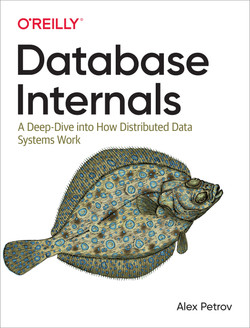
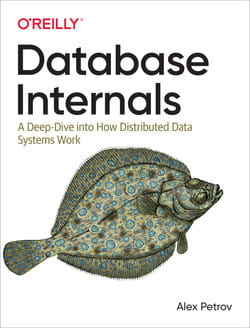
Explicit width and height. Compress some images.

diff --git a/static/hackmysql.css b/static/hackmysql.css
@@ -1,1 +1,1 @@
-*, *::before, *:after {box-sizing:border-box;} html {-webkit-text-size-adjust:100%;} body {font-family:'Verdana', sans-serif; font-size:14px; line-height:1.5em; margin:0; min-width:320px; word-wrap:break-word;} h1, h2, h3, h4 {line-height:1.2em; margin:2rem 0 0 0; font-weight:200;} h1 {font-size:2.4em; margin:0;} h2 {font-size:2.0em;} h3 {font-size:1.5em;} h4 {font-size:1.2em;} h2 + hr + h3 {margin-top:1rem;} a {color:#0060FF;} a:hover, a:focus {color:#0085a1; text-decoration:underline;} blockquote::before{content:"\201C"; font-size:4rem; position:relative; right:2rem; top:2rem; color:gray;} blockquote {display:inline-flex; color:#161616; font-family:'Georgia', serif; font-size:1.0rem; line-height:1.5rem; text-align:justify; margin:0 2rem;} sup {line-height:1em;} sup a {text-decoration:none;} img {display:block; margin:1em 0; max-width:100%;} img.left {float:left; margin-right:1rem;} img.c75 {margin-right:auto; margin-left:auto; width:75%;} img.c33 {margin-right:auto; margin-left:auto; width:33%;} hr {height:0; border:0; border-top:1px solid lightgray;} dt {font-style:italic;} dd {margin-left:2rem;} button:hover {cursor:pointer;} mark {background-color:pink; border-bottom:3px solid hotpink; padding:0 5px; border-top-left-radius:5px; border-bottom-right-radius:5px;} .comments {margin:2rem 1rem;} .post-preview {margin-top:2rem;} .post-preview > a {text-decoration:none; color:black;} .post-subtitle {margin-top:0.5rem; color:#777;} .post-meta {color:#707070; font-style:italic; margin:0.5rem 0 2rem 0;} .post-meta a {color:#404040; text-decoration:none;} .post-meta > div:first-child {display:flex; align-items:center; gap:0.5em;} .read-more {font-style:italic; text-align:right;} div.to {overflow-x:scroll;} :is(h1,h2,h3,h4) + div.to > table {margin-top:1em;} table {margin:0; padding:0; border-collapse:collapse;} table tr {border-top:1px solid #cccccc; margin:0; padding:0;} table tr:nth-child(2n) {background-color:#f8f8f8;} table tr th {font-weight:bold; border:1px solid #cccccc; text-align:left; padding:5px 10px;} table tr td {border:1px solid #cccccc; text-align:left; padding:5px 10px;} table tr th :first-child, table tr td :first-child {margin-top:0;} table tr th :last-child, table tr td :last-child {margin-bottom:0;} div.res {width:100%; font-family:'Courier'; overflow:scroll; padding:1rem;} table.list {position:relative; background-color:white; border:0; min-width:max-content;} table.list tr, table.list th, table.list td {background-color:white; border:0; margin:0; padding:0; font-weight:unset;} .kw {font-weight:bold; background-color:lime;} div.more {margin-top:4rem;} span.more {font-size:1.2rem;} .blogs > div {line-height:2rem; padding-left:2rem;} .tools {display:flex; flex-direction:column; gap:2rem; margin-top:2rem;} .tool {border:1px solid gray; padding:0.5rem; border-radius:15px; display:flex; flex-direction:row; align-items:center; cursor:pointer;} .tool:hover {box-shadow:0 0 10px 5px rgb(0, 255, 255, 75%);} img.ion {display:inline; height:2rem;} .tool > img.ion {margin-right:1rem;} div.blog-tags a {color:#005F87;} div.blog-tags a:hover {text-decoration:underline;} .note {background-color:#f0f7fb; border-left:solid 4px #3498db; border-radius:5px; padding:1rem 2rem; margin:2rem 0;} .warn {background-color:#ffdfdf; border-color:red; text-align:justify;} .left-icon {display:flex; align-items:center;} .left-icon > img {float:left; margin-right:1rem;} .note.warn.left-icon {padding-left:1rem;} .center {display:flex; align-items:center;} .mm {margin:1rem 0;} button#focus {float:right; font-size:inherit; color:inherit; border:0; background:none;} p.figure {margin-top:-0.5rem; margin-bottom:1rem; font-size:0.7rem; font-style:italic; color:#666666;} div.footnotes {margin-top:1rem;} .tag {border-radius:25px; border:1px solid black; padding:0 5px 0 5px; margin-right:10px;} .withshadow {box-shadow:0 4px 8px 0 rgb(0 0 0 / 40%);} .rounded {border-radius:20px;} .highlight {overflow:scroll;} .sidebyside {display:flex; gap:0.5rem; overflow-x:auto;} div.my-book-cover {text-align:center; margin-top:1rem;} img.my-book-cover {width:300px; margin:auto; margin-bottom:2rem; box-shadow:0 4px 8px 0 rgb(0, 0, 0, 50%);} .book-links {display:flex; gap:1rem; align-items:center; justify-content:center;} .book-button {position:relative; font-size:0.7rem; display:inline-block; margin-bottom:1rem; padding:8px 8px; word-break:keep-all; border-radius:5px; background-color:#e00; color:white; font-weight:300; text-transform:uppercase; letter-spacing:.02rem; text-decoration:none;} .book-button:hover, .book-button:focus {color:white; text-decoration:none;} .my-book-desc {text-align:justify;} div.book-covers img {height:150px; display:inline-block; margin:0.5rem;} nav a {text-decoration:none;} nav#toc {font-size:0.8rem; padding-right:1rem;} nav#toc a {color:black;} nav#toc a:hover {text-decoration:underline;} nav#toc ul {padding:0;} nav#toc nav > ul > li {margin-bottom:1rem;} nav#toc ul ul {padding-left:1rem; list-style-type:none;} nav#menu {min-height:75px; background:black; position:relative; padding-left:1rem; border-bottom:5px solid cyan;} nav#menu> a {color:hotpink; padding-right:0.5rem; font-size:20px;} nav#menu > a:hover {text-decoration:none;} .menuItem {display:inline-block; min-height:inherit;} .menuButton {color:cyan; border:0; background:none; position:relative; font-size:20px; min-height:inherit; padding:0; padding-right:0.75rem;} .submenu {display:none; position:absolute; z-index:1; width:auto; margin-right:2rem; background:black; color:white; line-height:1.75rem; padding:0 1rem 0.5rem 1rem; border:5px solid cyan; border-top:0; border-radius:0 0 15px 15px;} .submenu::before {content:""; position:absolute; top:0; left:-1rem; width:1rem; height:1rem; z-index:1; border-top:5px solid cyan; border-right:5px solid cyan; border-top-right-radius:10px; box-shadow:5px -5px black;} .submenu::after{content:""; position:absolute; top:0; right:-1rem; width:1rem; height:1rem; z-index:1; border-top:5px solid cyan; border-left:5px solid cyan; border-top-left-radius:10px; box-shadow:-5px -5px black;} .submenu a {color:white;} .submenu time {color:lightgray;} .subtitle {color:hotpink;} .subtitle:not(:first-child) {margin-top:1rem;} .views {display:inline-block; color:lightgray;} div.page {display:grid; grid-template-columns:1fr 60% 1fr; grid-template-areas: "bird art toc"; grid-column-gap:2rem; margin-top:1rem;} div#bird {grid-area:bird; padding-top:1rem; padding-left:1rem; overflow-x:hidden; font-size:0.8rem;} article {padding:1rem;} nav#toc {grid-area:toc; position:sticky; top:0; align-self:start;} div.scroller {overflow-y:scroll; padding-top:2rem; height:100vh;} .home {margin:0 2em; display:flex; gap:2em;} .home > div {flex-basis:100%;} @media screen and (max-width:767px) {.submenu {position:absolute; left:0; z-index:1; margin:0 1rem; width:calc(100% - 2rem); border-bottom:5px solid cyan;} div.page {display:grid; grid-template-columns:100%; grid-template-areas: "toc" "art" "bird"; margin:0 1rem;} nav#toc {grid-area:toc; line-height:2.0rem; position:relative; padding:0;} article {margin:0; padding:0; border:0;} div#bird {grid-area:bird; margin-top:4rem; padding:0;} div.scroller {padding-top:1rem; height:auto;} .home {margin:0 1rem; flex-direction:column; gap:2rem;} .books .more {display:none;} img.c75, img.c33{width:75vw;}} @media screen and (max-width:429px) {nav#menu {min-height:auto; padding:1rem;} .menuItem {display:block; min-height:auto;} .menuButton {min-height:auto; margin:0.5rem 0;} .menuItem:last-child .menuButton {margin-bottom:0;} .submenu {position:relative; z-index:0; border:0; width:100%; margin:0.5rem 0; padding:0; padding-left:0.5rem;} .submenu::before, .submenu::after {display:none;} img.left {float:none; margin:auto; width:100%;} .sidebyside {flex-direction:column;}} .footnote-backref {font-size:1.2em; text-decoration:none; vertical-align:text-top;} footer {margin-top:2rem; min-height:75px; display:flex; align-items:center; justify-content:center; gap:1rem; flex-wrap:wrap; color:white; background:black; border-top:5px solid cyan;} footer a {color:cyan; text-decoration:none;} .notfound {display:flex; margin:auto; width:50%; flex-direction:column; align-content:center;} .show {display:block;} .drop {text-decoration:underline; text-decoration-color:hotpink; text-underline-position:under;} .hide {visibility:hidden; height:0;} .noborder {border:0;padding:0;} .zen {position:fixed;top:1rem;right:1.5rem;padding:0;} .print-copyright {visibility:hidden; height:0;} @media print {nav#menu, footer {display:none;} div#bird, nav#toc, button#focus {visibility:hidden;} article {border:0;} .print-copyright {visibility:visible; height:auto; margin-top:4rem;}} div.chroma {background-color:white;} table.lntable tr{border:0;} td.lntd:first-child > pre.chroma {padding:0.5em 0em; background:white; color:black;} pre {line-height:1.5em; padding:0.5em; padding-right:2em; width:100%; overflow-x:scroll; border-radius:5px; background-color:#f5f5f5; font-size:13px; min-width:33%;} pre.chroma {background-color:black; width:fit-content; -moz-tab-size:4; -o-tab-size:4; tab-size:4;} pre code {white-space:pre; word-wrap:normal;} .bg {color:#f8f8f2; background-color:#272822;} .chroma {color:#f8f8f2; background-color:#272822;} .chroma .x {} .chroma .err {color:red; background-color:#1e0010} .chroma .cl {} .chroma .lnlinks {outline:none; text-decoration:none; color:inherit} .chroma .lntd {vertical-align:top; padding:0; margin:0; border:0;} .chroma .lntable {border-spacing:0; padding:0; margin:0; border:0;} .chroma .hl {background-color:#3c3d38} .chroma .lnt {white-space:pre; -webkit-user-select:none; user-select:none; margin-right:0.4em; padding:0 0.4em 0 0.4em;color:#7f7f7f} .chroma .ln {white-space:pre; -webkit-user-select:none; user-select:none; margin-right:0.4em; padding:0 0.4em 0 0.4em;color:#7f7f7f} .chroma .line {display:flex;} .chroma .k {color:#66d9ef} .chroma .kc {color:#66d9ef} .chroma .kd {color:#66d9ef} .chroma .kn {color:#f92672} .chroma .kp {color:#66d9ef} .chroma .kr {color:#66d9ef} .chroma .kt {color:#66d9ef} .chroma .n {} .chroma .na {color:#a6e22e} .chroma .nb {} .chroma .bp {} .chroma .nc {color:#a6e22e} .chroma .no {color:#66d9ef} .chroma .nd {color:#a6e22e} .chroma .ni {} .chroma .ne {color:#a6e22e} .chroma .nf {color:#a6e22e} .chroma .fm {} .chroma .nl {} .chroma .nn {} .chroma .nx {color:#a6e22e} .chroma .py {} .chroma .nt {color:lightgreen;} .chroma .nv {} .chroma .vc {} .chroma .vg {} .chroma .vi {} .chroma .vm {} .chroma .l {color:#ae81ff} .chroma .ld {color:#FAEBD7} .chroma .s {color:#FAEBD7;} .chroma .sa {color:#FAEBD7} .chroma .sb {color:#FAEBD7} .chroma .sc {color:#FAEBD7} .chroma .dl {color:#FAEBD7} .chroma .sd {color:#FAEBD7} .chroma .s2 {color:#FAEBD7} .chroma .se {color:#ae81ff} .chroma .sh {color:#FAEBD7} .chroma .si {color:#FAEBD7} .chroma .sx {color:#FAEBD7} .chroma .sr {color:#FAEBD7} .chroma .s1 {color:#FAEBD7} .chroma .ss {color:#FAEBD7} .chroma .m {color:#ae81ff} .chroma .mb {color:#ae81ff} .chroma .mf {color:#ae81ff} .chroma .mh {color:#ae81ff} .chroma .mi {color:cyan;} .chroma .il {color:#ae81ff} .chroma .mo {color:#ae81ff} .chroma .o {color:hotpink;} .chroma .ow {color:#f92672} .chroma .p {} .chroma .c {color:lightpink;} .chroma .ch {color:lightpink;} .chroma .cm {color:lightpink;} .chroma .c1 {color:lightpink;} .chroma .cs {color:lightpink;} .chroma .cp {color:lightpink;} .chroma .cpf {color:lightpink;} .chroma .g {} .chroma .gd {color:#f92672} .chroma .ge {font-style:italic} .chroma .gr {} .chroma .gh {} .chroma .gi {color:#a6e22e} .chroma .go {} .chroma .gs {font-weight:bold} .chroma .gu {color:#75715e} .chroma .gt {} .chroma .gl {} .chroma .w {}
+*, *::before, *:after {box-sizing:border-box;} html {-webkit-text-size-adjust:100%;} body {font-family:'Verdana', sans-serif; font-size:14px; line-height:1.5em; margin:0; min-width:320px; word-wrap:break-word;} h1, h2, h3, h4 {line-height:1.2em; margin:2rem 0 0 0; font-weight:200;} h1 {font-size:2.4em; margin:0;} h2 {font-size:2.0em;} h3 {font-size:1.5em;} h4 {font-size:1.2em;} h2 + hr + h3 {margin-top:1rem;} a {color:#0060FF;} a:hover, a:focus {color:#0085a1; text-decoration:underline;} blockquote::before{content:"\201C"; font-size:4rem; position:relative; right:2rem; top:2rem; color:gray;} blockquote {display:inline-flex; color:#161616; font-family:'Georgia', serif; font-size:1.0rem; line-height:1.5rem; text-align:justify; margin:0 2rem;} sup {line-height:1em;} sup a {text-decoration:none;} img {display:block; margin:1em 0; max-width:100%;} img.left {float:left; margin-right:1rem;} img.c75 {margin-right:auto; margin-left:auto; width:75%;} img.c33 {margin-right:auto; margin-left:auto; width:33%;} hr {height:0; border:0; border-top:1px solid lightgray;} dt {font-style:italic;} dd {margin-left:2rem;} button:hover {cursor:pointer;} mark {background-color:pink; border-bottom:3px solid hotpink; padding:0 5px; border-top-left-radius:5px; border-bottom-right-radius:5px;} .comments {margin:2rem 1rem;} .post-preview {margin-top:2rem;} .post-preview > a {text-decoration:none; color:black;} .post-subtitle {margin-top:0.5rem; color:#777;} .post-meta {color:#707070; font-style:italic; margin:0.5rem 0 2rem 0;} .post-meta a {color:#404040; text-decoration:none;} .post-meta > div:first-child {display:flex; align-items:center; gap:0.5em;} .read-more {font-style:italic; text-align:right;} div.to {overflow-x:scroll;} :is(h1,h2,h3,h4) + div.to > table {margin-top:1em;} table {margin:0; padding:0; border-collapse:collapse;} table tr {border-top:1px solid #cccccc; margin:0; padding:0;} table tr:nth-child(2n) {background-color:#f8f8f8;} table tr th {font-weight:bold; border:1px solid #cccccc; text-align:left; padding:5px 10px;} table tr td {border:1px solid #cccccc; text-align:left; padding:5px 10px;} table tr th :first-child, table tr td :first-child {margin-top:0;} table tr th :last-child, table tr td :last-child {margin-bottom:0;} div.res {width:100%; font-family:'Courier'; overflow:scroll; padding:1rem;} table.list {position:relative; background-color:white; border:0; min-width:max-content;} table.list tr, table.list th, table.list td {background-color:white; border:0; margin:0; padding:0; font-weight:unset;} .kw {font-weight:bold; background-color:lime;} div.more {margin-top:4rem;} span.more {font-size:1.2rem;} .blogs > div {line-height:2rem; padding-left:2rem;} .tools {display:flex; flex-direction:column; gap:2rem; margin-top:2rem;} .tool {border:1px solid gray; padding:0.5rem; border-radius:15px; display:flex; flex-direction:row; align-items:center; cursor:pointer;} .tool:hover {box-shadow:0 0 10px 5px rgb(0, 255, 255, 75%);} img.ion {display:inline; height:2rem;} .tool > img.ion {margin-right:1rem;} div.blog-tags a {color:#005F87;} div.blog-tags a:hover {text-decoration:underline;} .note {background-color:#f0f7fb; border-left:solid 4px #3498db; border-radius:5px; padding:1rem 2rem; margin:2rem 0;} .warn {background-color:#ffdfdf; border-color:red; text-align:justify;} .left-icon {display:flex; align-items:center;} .left-icon > img {float:left; margin-right:1rem;} .note.warn.left-icon {padding-left:1rem;} .center {display:flex; align-items:center;} .mm {margin:1rem 0;} button#focus {float:right; font-size:inherit; color:inherit; border:0; background:none;} p.figure {margin-top:-0.5rem; margin-bottom:1rem; font-size:0.7rem; font-style:italic; color:#666666;} div.footnotes {margin-top:1rem;} .tag {border-radius:25px; border:1px solid black; padding:0 5px 0 5px; margin-right:10px;} .withshadow {box-shadow:0 4px 8px 0 rgb(0 0 0 / 40%);} .rounded {border-radius:20px;} .highlight {overflow:scroll;} .sidebyside {display:flex; gap:0.5rem; overflow-x:auto;} div.my-book-cover {text-align:center; margin-top:1rem;} img.my-book-cover {margin:auto; margin-bottom:2rem; box-shadow:0 4px 8px 0 rgb(0, 0, 0, 50%);} .book-links {display:flex; gap:1rem; align-items:center; justify-content:center;} .book-button {position:relative; font-size:0.7rem; display:inline-block; margin-bottom:1rem; padding:8px 8px; word-break:keep-all; border-radius:5px; background-color:#e00; color:white; font-weight:300; text-transform:uppercase; letter-spacing:.02rem; text-decoration:none;} .book-button:hover, .book-button:focus {color:white; text-decoration:none;} .my-book-desc {text-align:justify;} div.book-covers img {display:inline-block; margin:0.5rem;} nav a {text-decoration:none;} nav#toc {font-size:0.8rem; padding-right:1rem;} nav#toc a {color:black;} nav#toc a:hover {text-decoration:underline;} nav#toc ul {padding:0;} nav#toc nav > ul > li {margin-bottom:1rem;} nav#toc ul ul {padding-left:1rem; list-style-type:none;} nav#menu {min-height:75px; background:black; position:relative; padding-left:1rem; border-bottom:5px solid cyan;} nav#menu> a {color:hotpink; padding-right:0.5rem; font-size:20px;} nav#menu > a:hover {text-decoration:none;} .menuItem {display:inline-block; min-height:inherit;} .menuButton {color:cyan; border:0; background:none; position:relative; font-size:20px; min-height:inherit; padding:0; padding-right:0.75rem;} .submenu {display:none; position:absolute; z-index:1; width:auto; margin-right:2rem; background:black; color:white; line-height:1.75rem; padding:0 1rem 0.5rem 1rem; border:5px solid cyan; border-top:0; border-radius:0 0 15px 15px;} .submenu::before {content:""; position:absolute; top:0; left:-1rem; width:1rem; height:1rem; z-index:1; border-top:5px solid cyan; border-right:5px solid cyan; border-top-right-radius:10px; box-shadow:5px -5px black;} .submenu::after{content:""; position:absolute; top:0; right:-1rem; width:1rem; height:1rem; z-index:1; border-top:5px solid cyan; border-left:5px solid cyan; border-top-left-radius:10px; box-shadow:-5px -5px black;} .submenu a {color:white;} .submenu time {color:lightgray;} .subtitle {color:hotpink;} .subtitle:not(:first-child) {margin-top:1rem;} .views {display:inline-block; color:lightgray;} div.page {display:grid; grid-template-columns:1fr 60% 1fr; grid-template-areas: "bird art toc"; grid-column-gap:2rem; margin-top:1rem;} div#bird {grid-area:bird; padding-top:1rem; padding-left:1rem; overflow-x:hidden; font-size:0.8rem;} article {padding:1rem;} nav#toc {grid-area:toc; position:sticky; top:0; align-self:start;} div.scroller {overflow-y:scroll; padding-top:2rem; height:100vh;} .home {margin:0 2em; display:flex; gap:2em;} .home > div {flex-basis:100%;} @media screen and (max-width:767px) {.submenu {position:absolute; left:0; z-index:1; margin:0 1rem; width:calc(100% - 2rem); border-bottom:5px solid cyan;} div.page {display:grid; grid-template-columns:100%; grid-template-areas: "toc" "art" "bird"; margin:0 1rem;} nav#toc {grid-area:toc; line-height:2.0rem; position:relative; padding:0;} article {margin:0; padding:0; border:0;} div#bird {grid-area:bird; margin-top:4rem; padding:0;} div.scroller {padding-top:1rem; height:auto;} .home {margin:0 1rem; flex-direction:column; gap:2rem;} .books .more {display:none;} img.c75, img.c33{width:75vw;}} @media screen and (max-width:429px) {nav#menu {min-height:auto; padding:1rem;} .menuItem {display:block; min-height:auto;} .menuButton {min-height:auto; margin:0.5rem 0;} .menuItem:last-child .menuButton {margin-bottom:0;} .submenu {position:relative; z-index:0; border:0; width:100%; margin:0.5rem 0; padding:0; padding-left:0.5rem;} .submenu::before, .submenu::after {display:none;} img.left {float:none; margin:auto; width:100%;} .sidebyside {flex-direction:column;}} .footnote-backref {font-size:1.2em; text-decoration:none; vertical-align:text-top;} footer {margin-top:2rem; min-height:75px; display:flex; align-items:center; justify-content:center; gap:1rem; flex-wrap:wrap; color:white; background:black; border-top:5px solid cyan;} footer a {color:cyan; text-decoration:none;} .notfound {display:flex; margin:auto; width:50%; flex-direction:column; align-content:center;} .show {display:block;} .drop {text-decoration:underline; text-decoration-color:hotpink; text-underline-position:under;} .hide {visibility:hidden; height:0;} .noborder {border:0;padding:0;} .zen {position:fixed;top:1rem;right:1.5rem;padding:0;} .print-copyright {visibility:hidden; height:0;} @media print {nav#menu, footer {display:none;} div#bird, nav#toc, button#focus {visibility:hidden;} article {border:0;} .print-copyright {visibility:visible; height:auto; margin-top:4rem;}} div.chroma {background-color:white;} table.lntable tr{border:0;} td.lntd:first-child > pre.chroma {padding:0.5em 0em; background:white; color:black;} pre {line-height:1.5em; padding:0.5em; padding-right:2em; width:100%; overflow-x:scroll; border-radius:5px; background-color:#f5f5f5; font-size:13px; min-width:33%;} pre.chroma {background-color:black; width:fit-content; -moz-tab-size:4; -o-tab-size:4; tab-size:4;} pre code {white-space:pre; word-wrap:normal;} .bg {color:#f8f8f2; background-color:#272822;} .chroma {color:#f8f8f2; background-color:#272822;} .chroma .x {} .chroma .err {color:red; background-color:#1e0010} .chroma .cl {} .chroma .lnlinks {outline:none; text-decoration:none; color:inherit} .chroma .lntd {vertical-align:top; padding:0; margin:0; border:0;} .chroma .lntable {border-spacing:0; padding:0; margin:0; border:0;} .chroma .hl {background-color:#3c3d38} .chroma .lnt {white-space:pre; -webkit-user-select:none; user-select:none; margin-right:0.4em; padding:0 0.4em 0 0.4em;color:#7f7f7f} .chroma .ln {white-space:pre; -webkit-user-select:none; user-select:none; margin-right:0.4em; padding:0 0.4em 0 0.4em;color:#7f7f7f} .chroma .line {display:flex;} .chroma .k {color:#66d9ef} .chroma .kc {color:#66d9ef} .chroma .kd {color:#66d9ef} .chroma .kn {color:#f92672} .chroma .kp {color:#66d9ef} .chroma .kr {color:#66d9ef} .chroma .kt {color:#66d9ef} .chroma .n {} .chroma .na {color:#a6e22e} .chroma .nb {} .chroma .bp {} .chroma .nc {color:#a6e22e} .chroma .no {color:#66d9ef} .chroma .nd {color:#a6e22e} .chroma .ni {} .chroma .ne {color:#a6e22e} .chroma .nf {color:#a6e22e} .chroma .fm {} .chroma .nl {} .chroma .nn {} .chroma .nx {color:#a6e22e} .chroma .py {} .chroma .nt {color:lightgreen;} .chroma .nv {} .chroma .vc {} .chroma .vg {} .chroma .vi {} .chroma .vm {} .chroma .l {color:#ae81ff} .chroma .ld {color:#FAEBD7} .chroma .s {color:#FAEBD7;} .chroma .sa {color:#FAEBD7} .chroma .sb {color:#FAEBD7} .chroma .sc {color:#FAEBD7} .chroma .dl {color:#FAEBD7} .chroma .sd {color:#FAEBD7} .chroma .s2 {color:#FAEBD7} .chroma .se {color:#ae81ff} .chroma .sh {color:#FAEBD7} .chroma .si {color:#FAEBD7} .chroma .sx {color:#FAEBD7} .chroma .sr {color:#FAEBD7} .chroma .s1 {color:#FAEBD7} .chroma .ss {color:#FAEBD7} .chroma .m {color:#ae81ff} .chroma .mb {color:#ae81ff} .chroma .mf {color:#ae81ff} .chroma .mh {color:#ae81ff} .chroma .mi {color:cyan;} .chroma .il {color:#ae81ff} .chroma .mo {color:#ae81ff} .chroma .o {color:hotpink;} .chroma .ow {color:#f92672} .chroma .p {} .chroma .c {color:lightpink;} .chroma .ch {color:lightpink;} .chroma .cm {color:lightpink;} .chroma .c1 {color:lightpink;} .chroma .cs {color:lightpink;} .chroma .cp {color:lightpink;} .chroma .cpf {color:lightpink;} .chroma .g {} .chroma .gd {color:#f92672} .chroma .ge {font-style:italic} .chroma .gr {} .chroma .gh {} .chroma .gi {color:#a6e22e} .chroma .go {} .chroma .gs {font-weight:bold} .chroma .gu {color:#75715e} .chroma .gt {} .chroma .gl {} .chroma .w {}

diff --git a/layouts/index.html b/layouts/index.html
@@ -3,7 +3,7 @@
 	<div class="books">
 		<div class="my-book">
 			<div class="my-book-cover">
-				<img class="my-book-cover" src="/img/book/efficient-mysql-performance-cover.png" alt="Efficient MySQL Performance book cover">
+				<img class="my-book-cover" width="300" height="396" src="/img/book/efficient-mysql-performance-cover.png" alt="Efficient MySQL Performance book cover">
 			</div>
 			<div class="book-links">
 				<a class="book-button" data-dst="oreilly" href="https://oreil.ly/efficient-mysql-performance">O'Reilly&nbsp;&Rang;</a>
@@ -24,13 +24,13 @@
 			<span class="more">More books about databases, MySQL, and SQL</span>
 			<hr>
 			<div class="book-covers">
-				<a href="https://www.oreilly.com/library/view/learning-mysql-2nd/9781492085911/"><img src="/img/learning-mysql-2e-book-cover.jpeg" alt="Learning MySQL (2nd Edition)"></a>
-				<a href="https://www.oreilly.com/library/view/high-performance-mysql/9781492080503/"><img src="/img/high-performance-mysql-4e-book-cover.jpeg " alt="High Performance MySQL (4th Edition)"></a>
-				<a href="https://pragprog.com/titles/bksap1/sql-antipatterns-volume-1/"><img src="/img/sql-antipatterns-vol-1-book-cover.jpeg " alt="SQL Antipatterns (Vol. 1)"></a>
-				<a href="https://www.oreilly.com/library/view/mysql-troubleshooting/9781449317836/"><img src="/img/mysql-troubleshooting-book-cover.jpeg" alt="MySQL Troubleshooting"></a>
-				<a href="https://learning.oreilly.com/library/view/mysql-cookbook-4th/9781492093152/"><img src="/img/mysql-cookbook-4ed-book-cover.jpeg" alt="MySQL Cookbook (4th Edition)"></a>
-				<a href="https://www.oreilly.com/library/view/database-internals/9781492040330/"><img src="/img/database-internals-book-cover.jpeg" alt="Database Internals"></a>
-				<a href="https://link.springer.com/book/10.1007/978-1-4842-6652-6"><img src="/img/mysql-concurrency-book-cover.jpeg" alt="MySQL Concurrency: Locking and Transactions for MySQL Developers and DBAs"></a>
+				<a href="https://www.oreilly.com/library/view/learning-mysql-2nd/9781492085911/"><img width="114" height="150" src="/img/learning-mysql-2e-book-cover.jpeg" alt="Learning MySQL (2nd Edition)"></a>
+				<a href="https://www.oreilly.com/library/view/high-performance-mysql/9781492080503/"><img width="114" height="150" src="/img/high-performance-mysql-4e-book-cover.jpeg " alt="High Performance MySQL (4th Edition)"></a>
+				<a href="https://www.oreilly.com/library/view/database-internals/9781492040330/"><img width="114" height="150" src="/img/database-internals-book-cover.jpeg" alt="Database Internals"></a>
+				<a href="https://www.oreilly.com/library/view/mysql-troubleshooting/9781449317836/"><img width="114" height="150" src="/img/mysql-troubleshooting-book-cover.jpeg" alt="MySQL Troubleshooting"></a>
+				<a href="https://learning.oreilly.com/library/view/mysql-cookbook-4th/9781492093152/"><img width="114" height="150" src="/img/mysql-cookbook-4ed-book-cover.jpeg" alt="MySQL Cookbook (4th Edition)"></a>
+				<a href="https://pragprog.com/titles/bksap1/sql-antipatterns-volume-1/"><img width="125" height="150" src="/img/sql-antipatterns-vol-1-book-cover.jpeg " alt="SQL Antipatterns (Vol. 1)"></a>
+				<a href="https://link.springer.com/book/10.1007/978-1-4842-6652-6"><img width="105" height="150" src="/img/mysql-concurrency-book-cover.jpeg" alt="MySQL Concurrency: Locking and Transactions for MySQL Developers and DBAs"></a>
 			</div>
 		</div>
 	</div>

diff --git a/layouts/partials/nav.html b/layouts/partials/nav.html
@@ -40,15 +40,15 @@
 				<time>{{ .Date.Format "2006-01-02" }}</time>&nbsp;<a href="{{ .Permalink }}">{{ .Title }}</a><br>
 				{{ end }}
 			<div class="subtitle">Most Popular</div>
-				<span class="views">8,572 views</span>
+				<span class="views">8,664 views</span>
 				<a href="{{ ref . "book-2" }}">MySQL EXPLAIN ANALYZE</a><br>
-				<span class="views">5,439 views</span>
+				<span class="views">5,518 views</span>
 				<a href="{{ ref . "mysql-threads-running-how-hard-is-mysql-working" }}">MySQL Threads Running: How Hard is MySQL Working?</a><br>
-				<span class="views">4,002 views</span>
+				<span class="views">4,090 views</span>
 				<a href="{{ ref . "commit-latency-aurora-vs-rds-mysql-8.0" }}">COMMIT Latency: Aurora vs. RDS MySQL 8.0</a><br>
-				<span class="views">3,937 views</span>
+				<span class="views">3,944 views</span>
 				<a href="{{ ref . "book-5" }}">I Don't Want to Shard (MySQL)</a><br>
-				<span class="views">3,434 views</span>
+				<span class="views">3,488 views</span>
 				<a href="{{ ref . "are-aurora-performance-claims-true" }}">Are Aurora Performance Claims True?</a><br>
 			<div class="subtitle">Watch and Learn</div>
 				<a href="/path/">An Efficient Path to Learning MySQL Performance</a><br>

diff --git a/layouts/_default/single.html b/layouts/_default/single.html
@@ -1,7 +1,7 @@
 {{ define "main" }}
 <div class="page">
 	<div id="bird">
-		<img width="120" src="/img/emp-bird.png" alt="Efficient MySQL Performance bird">
+		<img width="120" height="106" src="/img/emp-bird.png" alt="Efficient MySQL Performance bird">
 		<p><b><i>Efficient MySQL Performance</i></b><br>20 years of MySQL performance, written for software engineers</p>
 		<a class="book-button" data-dst="oreilly" href="https://oreil.ly/efficient-mysql-performance">O'Reilly&nbsp;&Rang;</a><br>
 		<a class="book-button" data-dst="amazon" href="https://www.amazon.com/Efficient-MySQL-Performance-Practices-Techniques/dp/1098105095/">Amazon &nbsp;&Rang;</a><br>

diff --git a/src/hackmysql.css b/src/hackmysql.css
@@ -209,7 +209,6 @@ div.footnotes { margin-top: 1rem; }
 /* book */
 div.my-book-cover { text-align: center; margin-top: 1rem; }
 img.my-book-cover {
-  width: 300px;
   margin: auto;
   margin-bottom: 2rem;
   box-shadow: 0 4px 8px 0 rgb(0, 0, 0, 50%);
@@ -237,7 +236,7 @@ img.my-book-cover {
 }
 .book-button:hover, .book-button:focus {color: white; text-decoration: none;}
 .my-book-desc { text-align: justify; }
-div.book-covers img { height: 150px; display: inline-block; margin: 0.5rem; }
+div.book-covers img { display: inline-block; margin: 0.5rem; }
 
 /* toc */
 nav a { text-decoration: none; }
